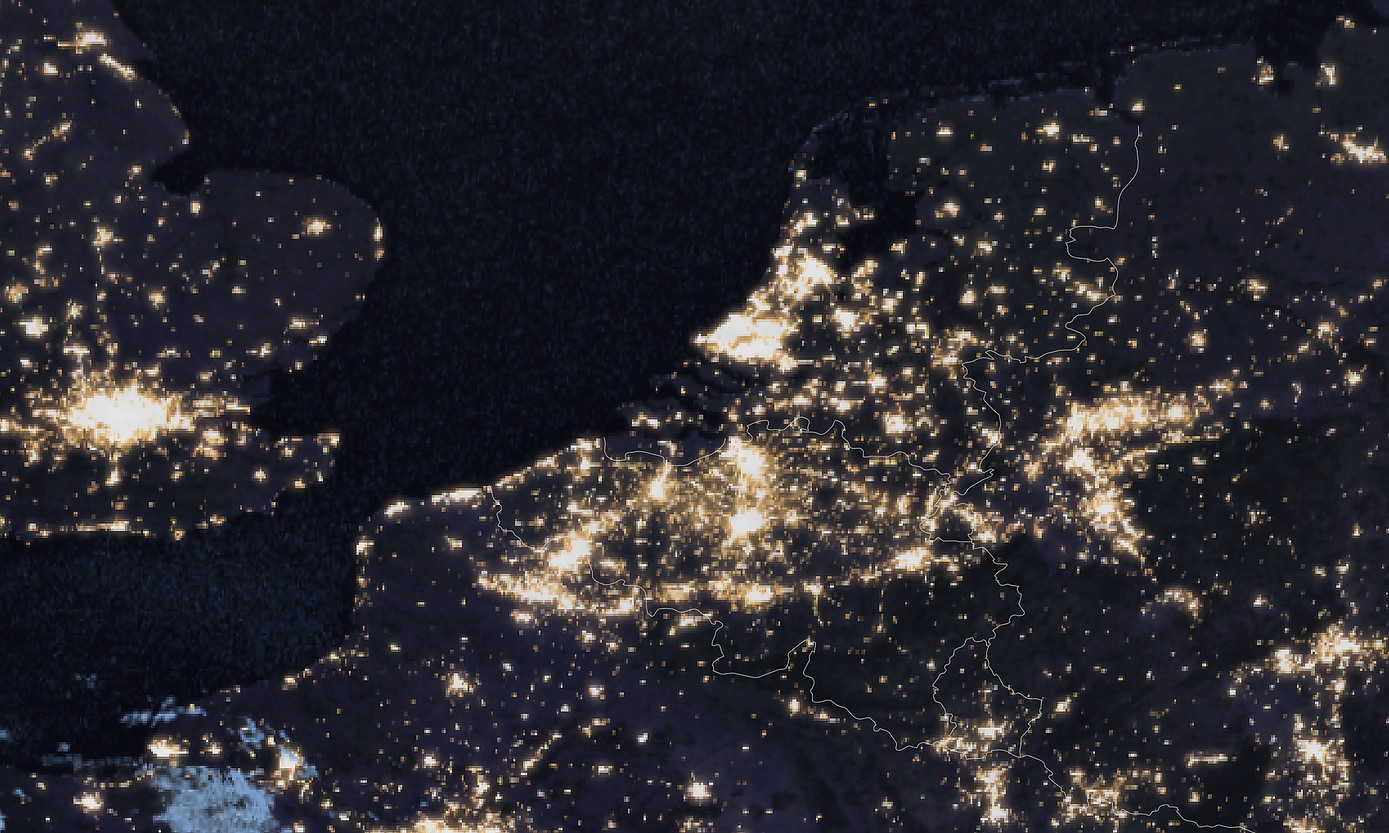
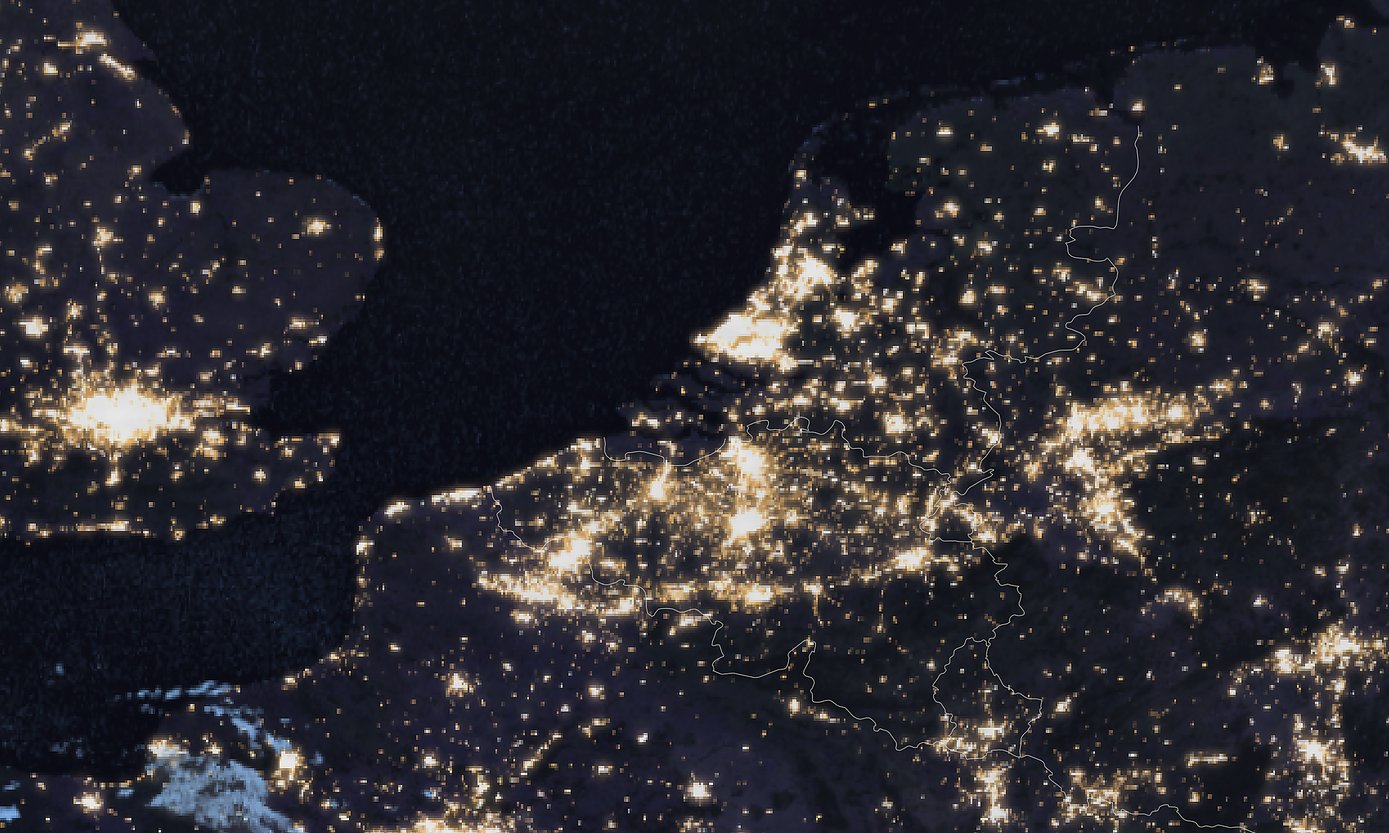
MTG Benelux satellietbeeld update 2026-05-01 06:30

Changed region(s): [[0.0, 0.8125, 0.25, 1.0], [0.0, 0.9375, 0.0312, 1.0], [0.0312, 0.7812, 0.0625, 0.8125]]

diff --git a/mtg_benelux_meta.js b/mtg_benelux_meta.js
@@ -1,2 +1,2 @@
 const MTG_BENELUX_PRODUCT = "mtg_fd:rgb_geocolour";
-const MTG_BENELUX_TIJD = "2026-05-01T03:50:00Z";
+const MTG_BENELUX_TIJD = "2026-05-01T04:10:00Z";
